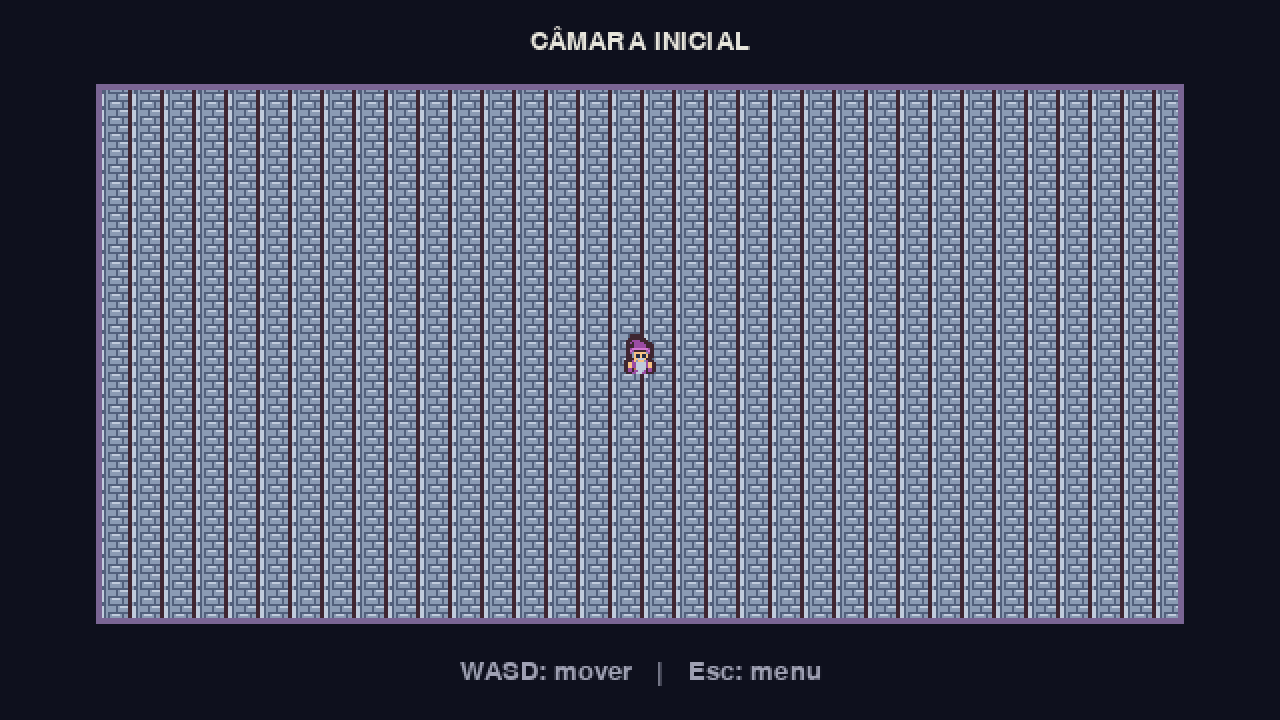
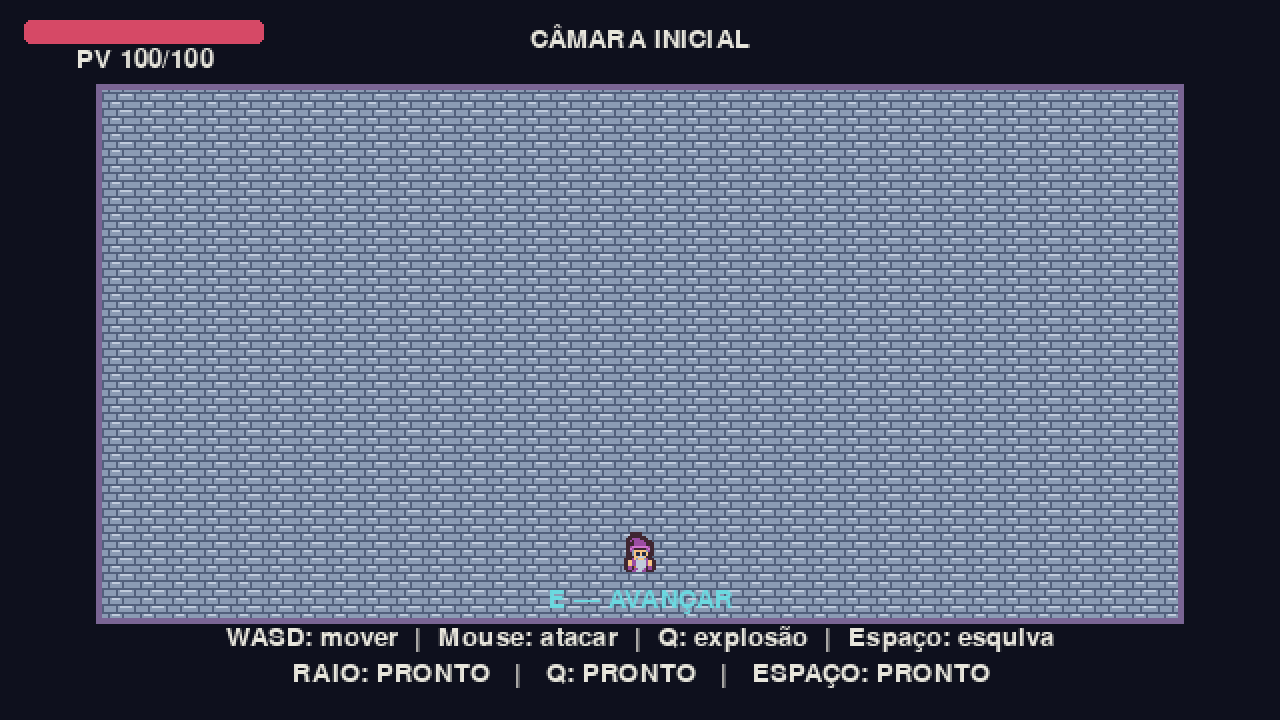
test: validar combate e percurso das salas

Changed region(s): [[0.0938, 0.1222, 0.9062, 0.9472], [0.4062, 0.0306, 0.5938, 0.0917], [0.0, 0.0306, 0.2188, 0.0917]]

diff --git a/tests/test_world.py b/tests/test_world.py
@@ -2,6 +2,7 @@ import unittest
 
 import pygame
 
+from src.combat import Projectile
 from src.player import Player
 from src.world import World
 
@@ -51,6 +52,55 @@ class WorldTests(unittest.TestCase):
         self.assertTrue(self.world.projectiles)
         self.world.load_room(1)
         self.assertFalse(self.world.projectiles)
+
+    def test_dead_boss_clears_hostile_attacks_before_damage(self):
+        self.world.load_room(3)
+        self.world.hazards.append([self.player.position.copy(), 0.01])
+        self.world.projectiles.append(Projectile(self.player.position, (1, 0), 30, 0, friendly=False))
+        self.world.enemies[0].take_damage(1000)
+        self.world.update(0.02)
+        self.assertEqual(self.player.hp, 100)
+        self.assertFalse(self.world.hazards)
+        self.assertFalse(self.world.projectiles)
+
+    def test_explosion_damages_only_nearby_enemies_and_has_cooldown(self):
+        self.world.load_room(1)
+        near, far = self.world.enemies[:2]
+        near.position = self.player.position + pygame.Vector2(25, 0)
+        far.position = self.player.position + pygame.Vector2(-180, 0)
+        self.assertTrue(self.world.explode())
+        self.assertEqual(near.hp, 12)
+        self.assertEqual(far.hp, 30)
+        self.assertFalse(self.world.explode())
+
+    def test_projectile_reaches_enemy_and_applies_damage(self):
+        self.world.load_room(1)
+        target = self.world.enemies[0]
+        target.position = self.player.position + pygame.Vector2(30, 0)
+        self.world.fire(target.position, 'basic')
+        self.world.update(0.06)
+        self.assertEqual(target.hp, 20)
+
+    def test_simulated_run_can_clear_all_combat_rooms(self):
+        for room in range(1, 4):
+            self.world.load_room(room)
+            for _ in range(3600):
+                alive = [enemy for enemy in self.world.enemies if enemy.alive]
+                if not alive or self.player.hp <= 0:
+                    break
+                target = min(alive, key=lambda enemy: enemy.position.distance_to(self.player.position))
+                delta = self.player.position - target.position
+                move = delta.normalize() if 0 < delta.length() < 105 else pygame.Vector2()
+                self.player.update(move, 1 / 60, self.world.bounds)
+                self.world.fire(target.position, 'basic')
+                self.world.fire(target.position, 'spear')
+                if delta.length() < 65:
+                    self.world.explode()
+                self.world.update(1 / 60)
+            self.assertTrue(self.world.complete, f'Sala {room} não foi concluída')
+            self.assertGreater(self.player.hp, 0)
+            if room < 3:
+                self.world.apply_upgrade('vital')
 
 
 if __name__ == '__main__':

diff --git a/tests/test_game.py b/tests/test_game.py
@@ -99,3 +99,20 @@ class GameStateTests(unittest.TestCase):
         self.assertEqual(self.game.state, GameState.PLAYING)
         self.assertEqual(self.game.player.hp, 100)
         self.assertEqual(self.game.world.room_index, 0)
+
+    def test_mouse_attacks_and_cooldowns(self):
+        self.key(pygame.K_RETURN)
+        event = pygame.event.Event(pygame.MOUSEBUTTONDOWN, button=3, pos=(800, 300))
+        self.game.handle_event(event)
+        self.game.handle_event(event)
+        self.assertEqual(len(self.game.world.projectiles), 1)
+        self.assertEqual(self.game.world.projectiles[0].max_hits, 2)
+        self.assertGreater(self.game.player.cooldowns['spear'], 0)
+
+    def test_draw_combat_objects_and_telegraph(self):
+        self.key(pygame.K_RETURN)
+        self.game.world.load_room(3)
+        self.game.world.enemies[0].windup = 0.5
+        self.game.world.hazards.append([pygame.Vector2(320, 180), 0.5])
+        self.game.world.fire((400, 100), 'spear')
+        self.game.draw()
